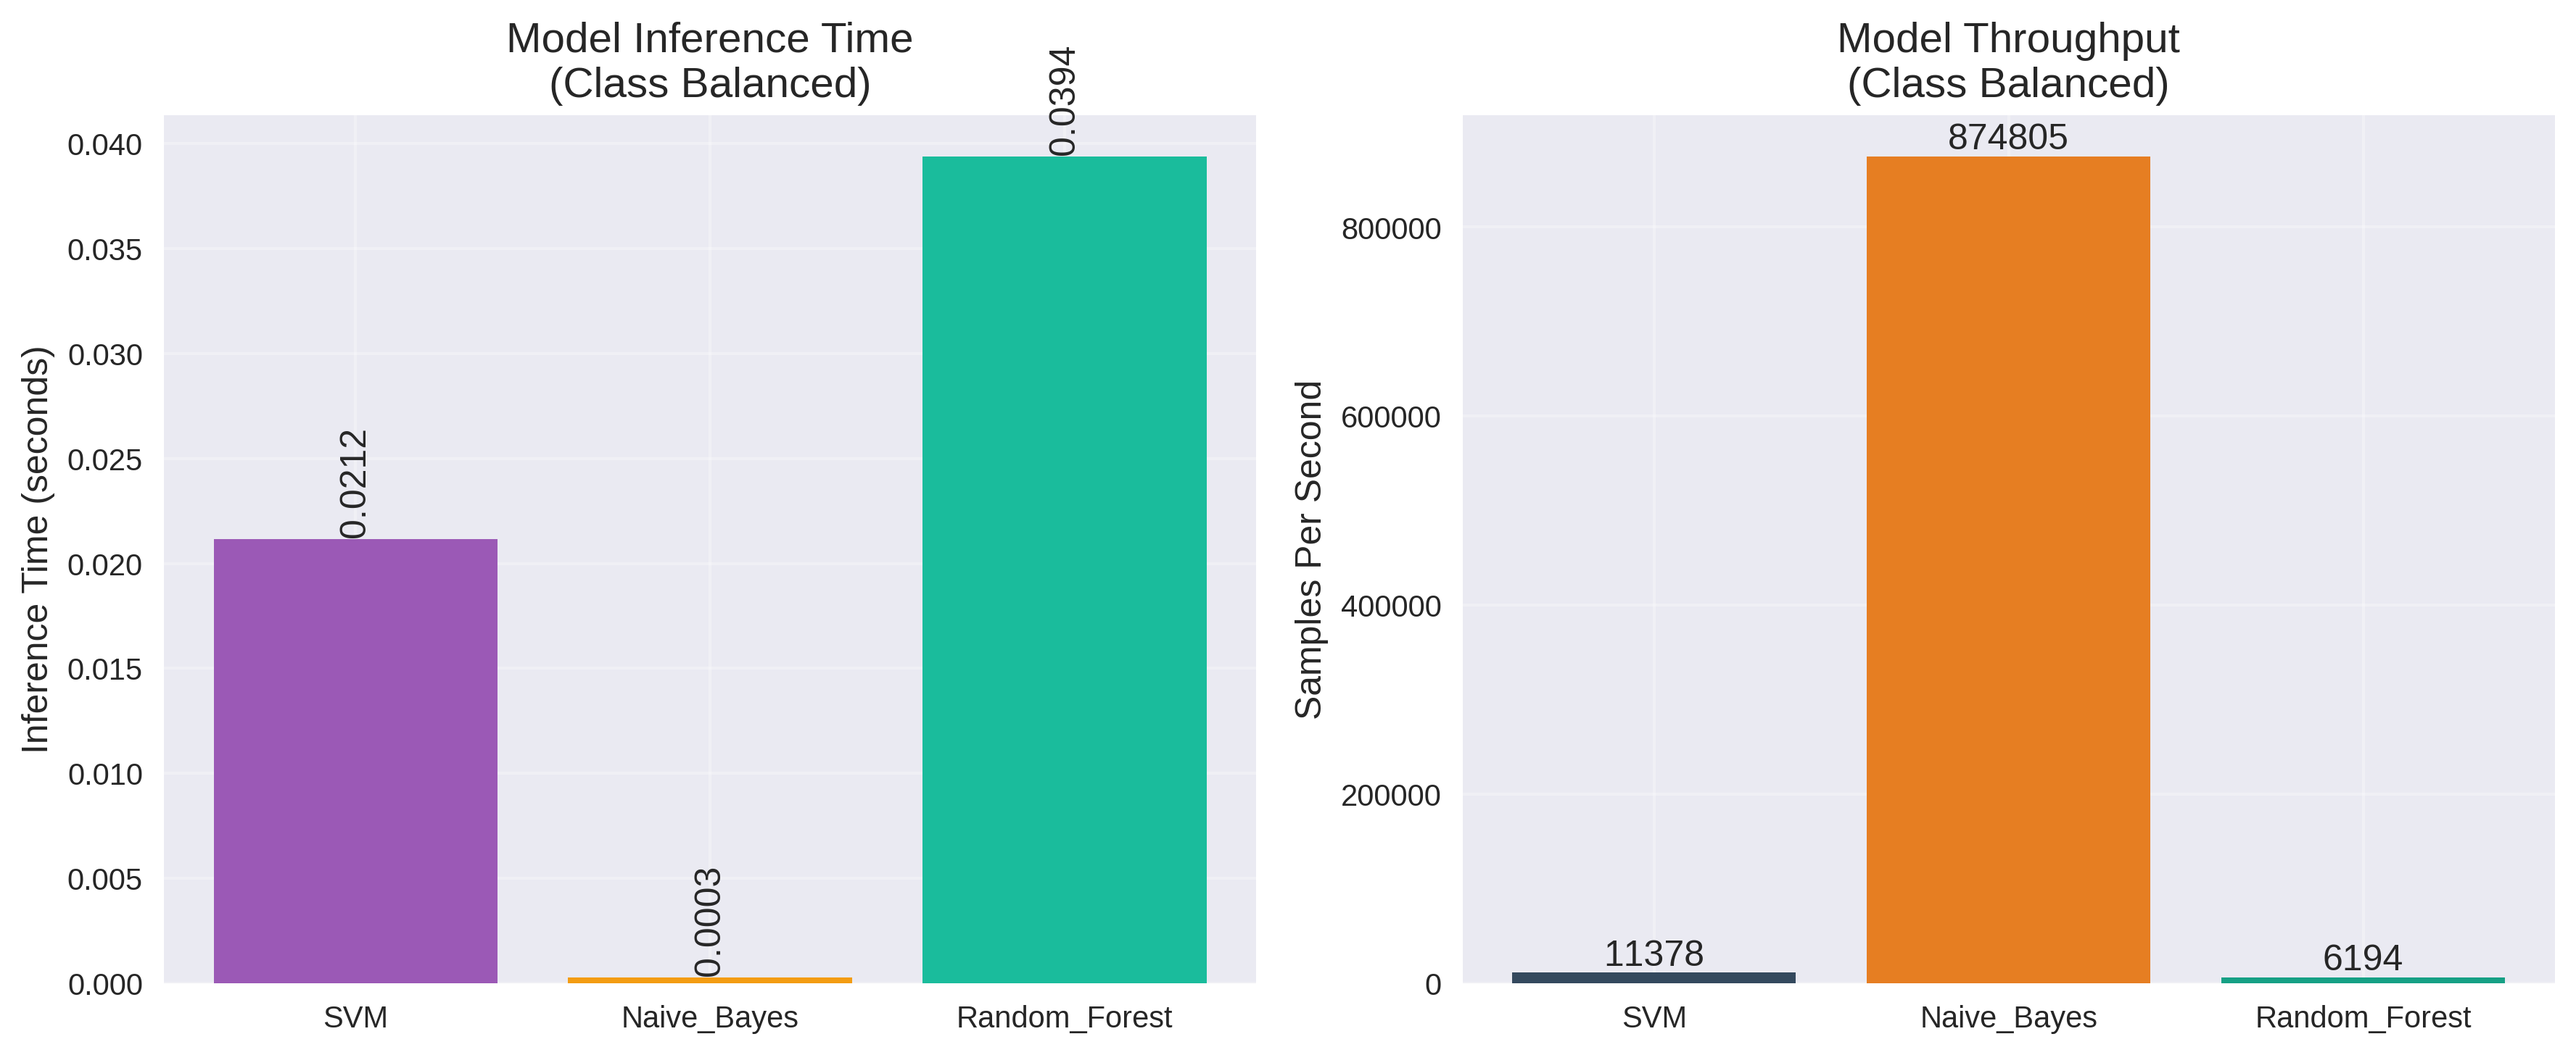
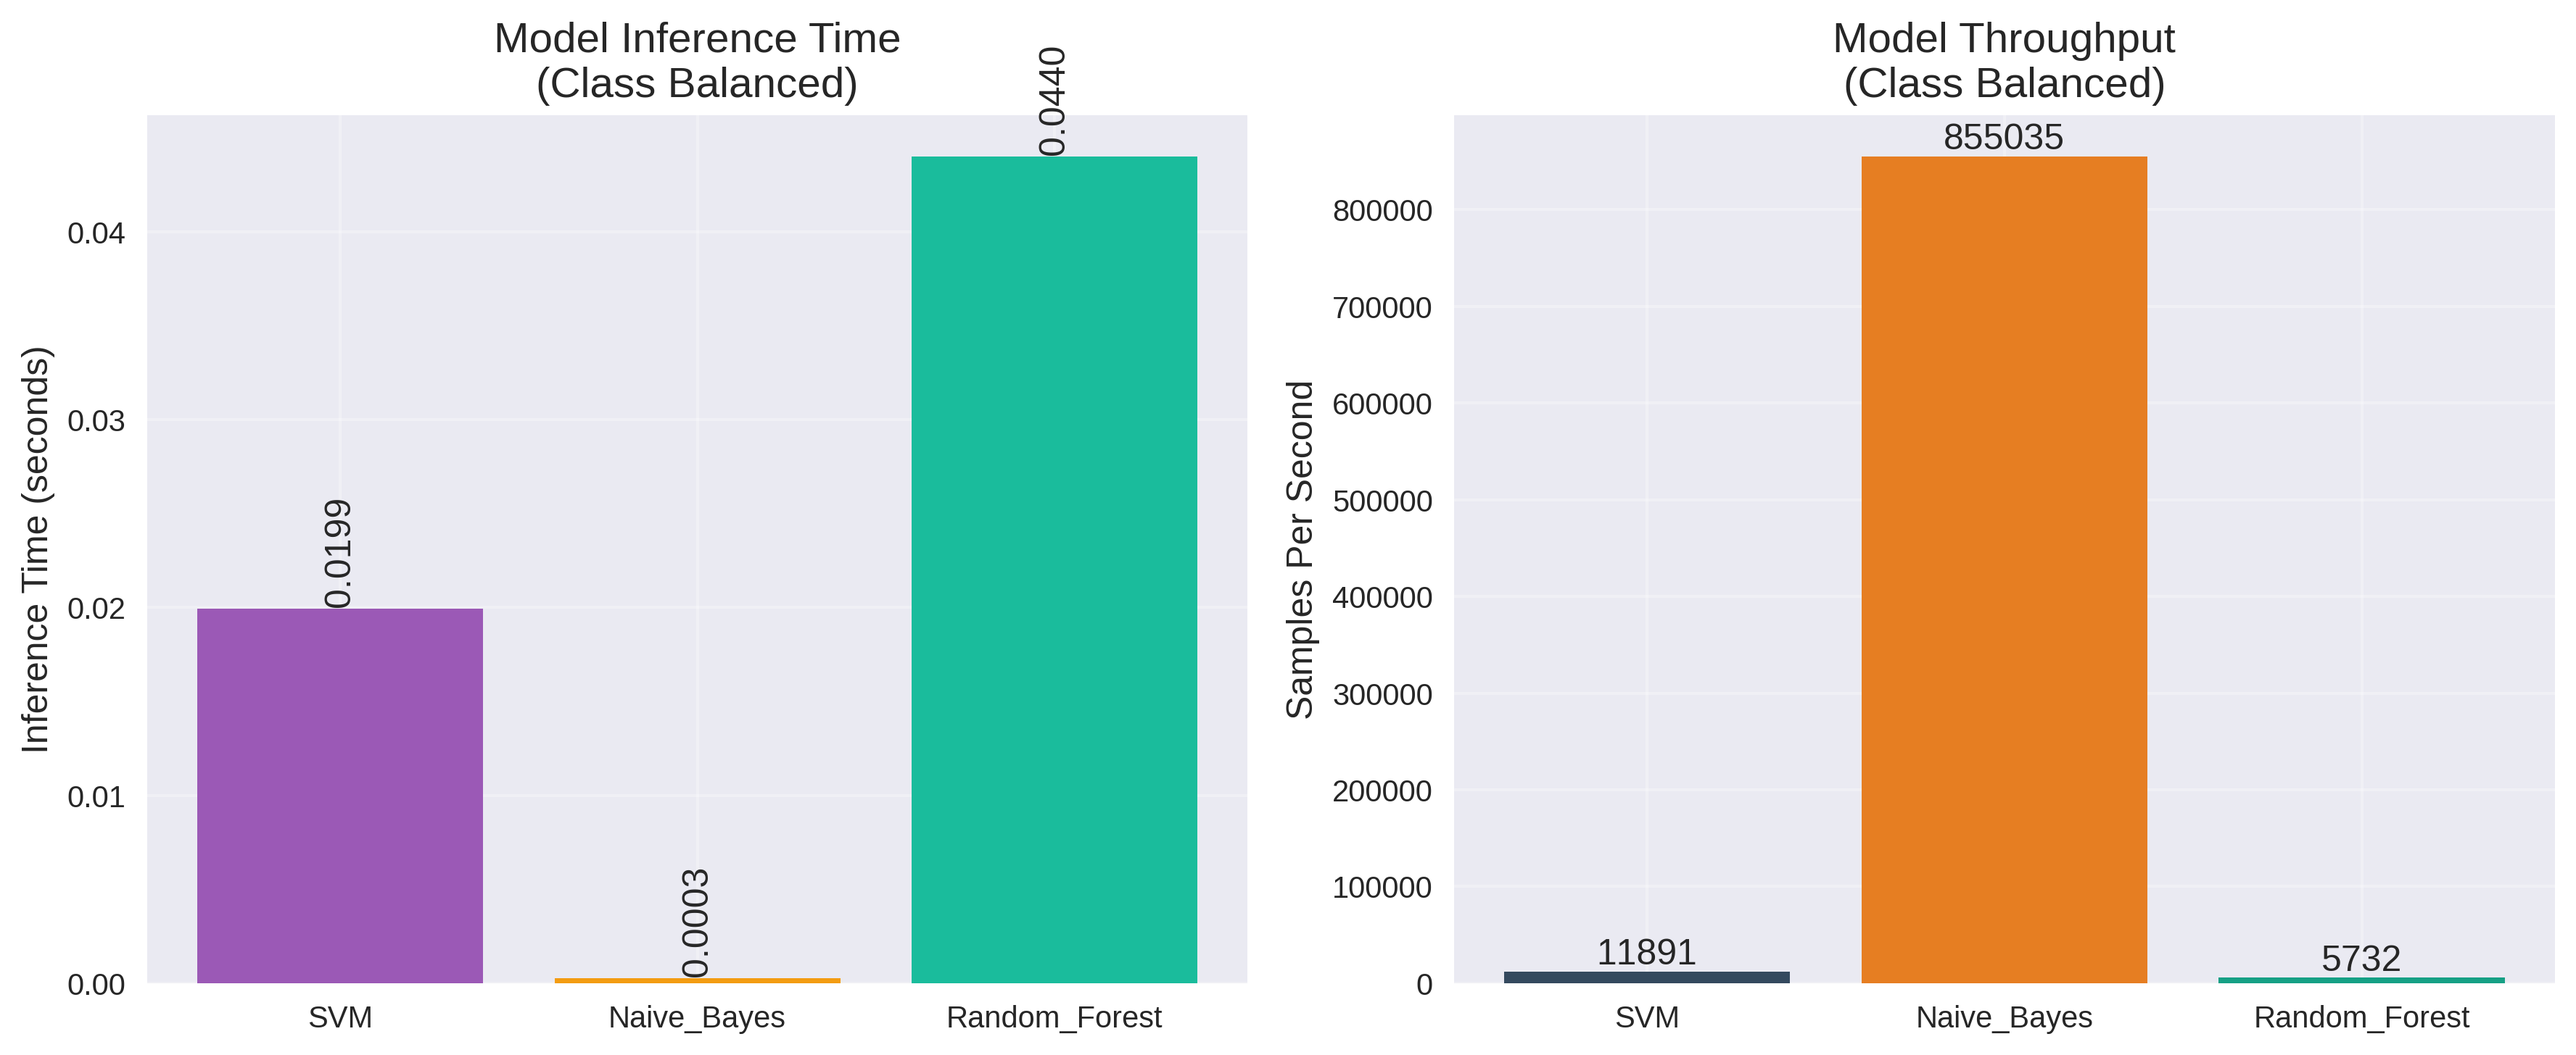
up

diff --git a/DeepLearning_10fold/LSTM_BiLSTM_Comparison_Report.md b/DeepLearning_10fold/LSTM_BiLSTM_Comparison_Report.md
@@ -2,7 +2,7 @@
 
 ## Experiment Overview
 
-**Experiment Date**: 2025-09-20T22:31:04 to 2025-09-20T22:31:34  
+**Experiment Date**: 2025-09-20T22:55:13 to 2025-09-20T22:55:44  
 **Task**: Binary Text Classification for Chinese Text  
 **Dataset Size**: 2348 samples, 3 features  
 **Vocabulary Size**: 1496 unique tokens  
@@ -81,14 +81,14 @@ Estimated Parameters: ~200,928
 
 | Fold | Accuracy | Precision | Recall | F1 Score | Inference Time (s) | GPU Memory (GB) |
 |------|----------|-----------|--------|----------|-------------------|-----------------|
-| 1 | 0.2468 | 0.0000 | 0.0000 | 0.0000 | 0.0088 | 0.2053 |
-| 2 | 0.9447 | 0.9816 | 0.9412 | 0.9610 | 0.0088 | 0.2045 |
+| 1 | 0.2468 | 0.0000 | 0.0000 | 0.0000 | 0.0089 | 0.2053 |
+| 2 | 0.9447 | 0.9816 | 0.9412 | 0.9610 | 0.0087 | 0.2045 |
 | 3 | 0.9106 | 0.9682 | 0.9048 | 0.9354 | 0.0087 | 0.2045 |
 | 4 | 0.9191 | 0.9551 | 0.9255 | 0.9401 | 0.0088 | 0.2045 |
 | 5 | 0.9149 | 0.9649 | 0.9218 | 0.9429 | 0.0087 | 0.2045 |
 | 6 | 0.9319 | 0.9826 | 0.9286 | 0.9548 | 0.0088 | 0.2045 |
 | 7 | 0.8979 | 0.9702 | 0.8956 | 0.9314 | 0.0088 | 0.2045 |
-| 8 | 0.9319 | 0.9821 | 0.9270 | 0.9538 | 0.0088 | 0.2045 |
+| 8 | 0.9319 | 0.9821 | 0.9270 | 0.9538 | 0.0087 | 0.2045 |
 | 9 | 0.9060 | 0.9576 | 0.9133 | 0.9349 | 0.0087 | 0.2045 |
 | 10 | 0.9487 | 0.9677 | 0.9677 | 0.9677 | 0.0088 | 0.2045 |
 
@@ -105,7 +105,7 @@ Estimated Parameters: ~200,928
 | 7 | 0.9191 | 0.9657 | 0.9286 | 0.9468 | 0.0054 | 0.2045 |
 | 8 | 0.9447 | 0.9714 | 0.9551 | 0.9632 | 0.0054 | 0.2045 |
 | 9 | 0.9103 | 0.9524 | 0.9249 | 0.9384 | 0.0054 | 0.2045 |
-| 10 | 0.9444 | 0.9482 | 0.9839 | 0.9657 | 0.0054 | 0.2045 |
+| 10 | 0.9444 | 0.9482 | 0.9839 | 0.9657 | 0.0056 | 0.2045 |
 
 ## Key Findings
 
@@ -188,20 +188,20 @@ Estimated Parameters: ~200,928
 Total logged events: 276
 
 ### Key Milestones
-- [2025-09-20 22:31:04] INFO: === LSTM vs BiLSTM Comparison Experiment ===
-- [2025-09-20 22:31:04] INFO: Starting data loading and cleaning...
-- [2025-09-20 22:31:04] INFO: Successfully loaded data with utf-8 encoding
-- [2025-09-20 22:31:04] INFO: Data columns: ['text', 'label']
-- [2025-09-20 22:31:04] INFO: Initial data shape: (2348, 2)
-- [2025-09-20 22:31:04] INFO: Removed 0 empty text entries
-- [2025-09-20 22:31:04] INFO: Unique labels found: [0, 1]
-- [2025-09-20 22:31:04] INFO: Class distribution:
+- [2025-09-20 22:55:13] INFO: === LSTM vs BiLSTM Comparison Experiment ===
+- [2025-09-20 22:55:13] INFO: Starting data loading and cleaning...
+- [2025-09-20 22:55:13] INFO: Successfully loaded data with utf-8 encoding
+- [2025-09-20 22:55:13] INFO: Data columns: ['text', 'label']
+- [2025-09-20 22:55:13] INFO: Initial data shape: (2348, 2)
+- [2025-09-20 22:55:13] INFO: Removed 0 empty text entries
+- [2025-09-20 22:55:13] INFO: Unique labels found: [0, 1]
+- [2025-09-20 22:55:13] INFO: Class distribution:
 label
 0     592
 1    1756
 Name: count, dtype: int64
-- [2025-09-20 22:31:04] INFO: Class imbalance ratio: 2.97
-- [2025-09-20 22:31:04] INFO: Final cleaned data shape: (2348, 2)
+- [2025-09-20 22:55:13] INFO: Class imbalance ratio: 2.97
+- [2025-09-20 22:55:13] INFO: Final cleaned data shape: (2348, 2)
 - ... and 266 more entries
 
 
@@ -213,4 +213,4 @@ The choice between these architectures should be guided by specific project requ
 
 ---
 
-*Report generated automatically on 2025-09-20 22:31:34*
+*Report generated automatically on 2025-09-20 22:55:44*

diff --git a/Machine_Learning_10fold/model_comparison_report_balanced.md b/Machine_Learning_10fold/model_comparison_report_balanced.md
@@ -37,9 +37,9 @@ This report presents a comprehensive comparison of three machine learning models
 
 | Model | Accuracy | Precision | Recall | F1-Score | ROC AUC | Inference Time (s) |
 |-------|----------|-----------|--------|----------|---------|-------------------|
-| SVM | 0.919 | 0.956 | 0.936 | 0.946 | 0.950 | 0.0212 |
+| SVM | 0.919 | 0.956 | 0.936 | 0.946 | 0.950 | 0.0199 |
 | Naive_Bayes | 0.892 | 0.962 | 0.891 | 0.925 | 0.929 | 0.0003 |
-| Random_Forest | 0.899 | 0.963 | 0.900 | 0.930 | 0.964 | 0.0394 |
+| Random_Forest | 0.899 | 0.963 | 0.900 | 0.930 | 0.964 | 0.0440 |
 
 ### Best Performing Models by Metric (Class Balanced)
 
@@ -82,7 +82,7 @@ This report presents a comprehensive comparison of three machine learning models
 
 
 - **Fastest Model**: Naive_Bayes (0.0003s per batch)
-- **Highest Throughput**: Naive_Bayes (874805 samples/second)
+- **Highest Throughput**: Naive_Bayes (855035 samples/second)
 - **Class Balancing Overhead**: Minimal additional computational cost
 
 ## Recommendations for Educational Context
